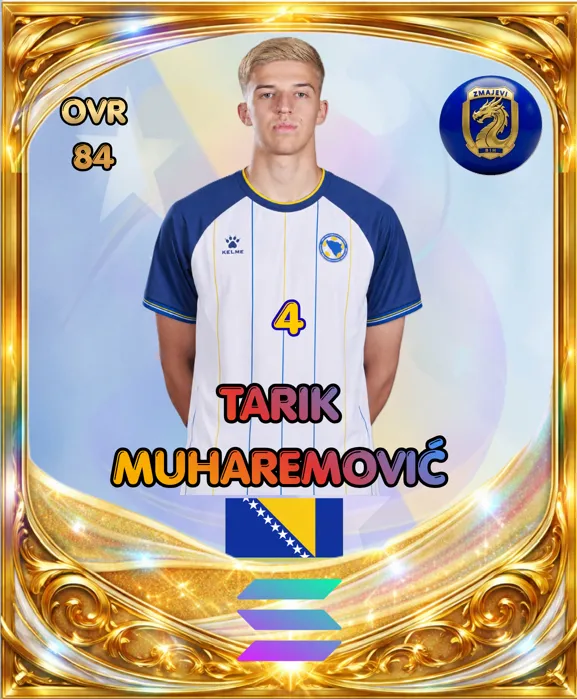
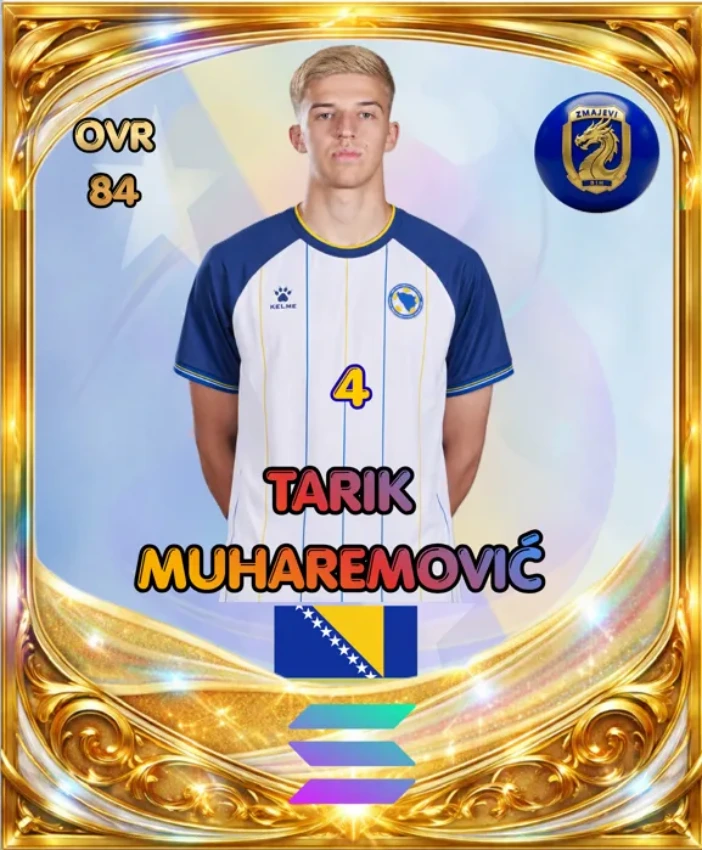
feat: add MatchBets component with escrow logic, betting simulation, and IPFS image resolution

diff --git a/src/components/MatchBets.tsx b/src/components/MatchBets.tsx
@@ -484,7 +484,7 @@ export default function MatchBets({ wallet, onWalletChange, collection, onCollec
                         {ended.scorerIds.map(sid => {
                           const s = STICKERS.find(st => st.id === sid);
                           if (!s) return null;
-                          const folder = s.type === 1 ? "special_collection" : "players";
+                          const folder = s.type === StickerType.SPECIAL ? "special_collection" : "players";
                           const cid = `${IPFS_CID}/components/${folder}/${s.imageFile}`;
                           return (
                             <a key={sid} href={`https://${IPFS_CID}.ipfs.dweb.link/components/${folder}/${s.imageFile}`} target="_blank" rel="noopener noreferrer"

diff --git a/index.html b/index.html
@@ -5,6 +5,15 @@
   <meta charset="UTF-8" />
   <meta name="viewport" content="width=device-width, initial-scale=1.0" />
   <title>Bosnia - World Cup 2026 Web3 Sticker Album</title>
+  <!-- Google tag (gtag.js) -->
+  <script async src="https://www.googletagmanager.com/gtag/js?id=G-YCDKQ23XKJ"></script>
+  <script>
+    window.dataLayer = window.dataLayer || [];
+    function gtag() { dataLayer.push(arguments); }
+    gtag('js', new Date());
+
+    gtag('config', 'G-YCDKQ23XKJ');
+  </script>
   <script>
     (function () {
       try {

diff --git a/scripts/mint-pack.ts b/scripts/mint-pack.ts
@@ -4,7 +4,7 @@ import { keypairIdentity, generateSigner, publicKey } from '@metaplex-foundation
 import { readFileSync } from 'fs';
 
 // Update this with the Collection Address generated by setup-collection.ts
-const COLLECTION_ADDRESS = 'GeKpRWxojpvDrHQFJoVLaJHqYS5jxutdTwauXmT3Wamr';
+const COLLECTION_ADDRESS = 'DrQQhXb2dk99XvhM1Rem7PnKZDkah6C5aFU9Uyd5ju54';
 
 // For testing, we can mint to the admin wallet itself, or replace with a user's wallet
 const DESTINATION_WALLET = 'DrQQhXb2dk99XvhM1Rem7PnKZDkah6C5aFU9Uyd5ju54';
